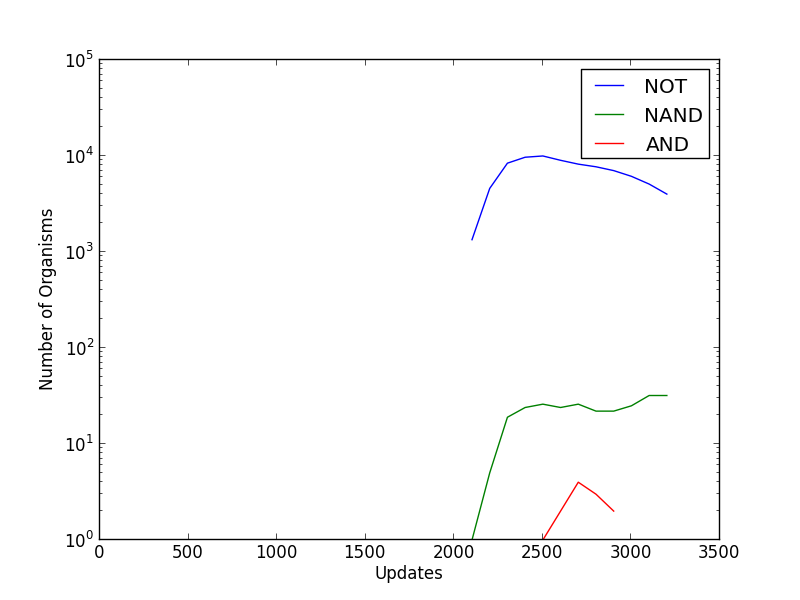
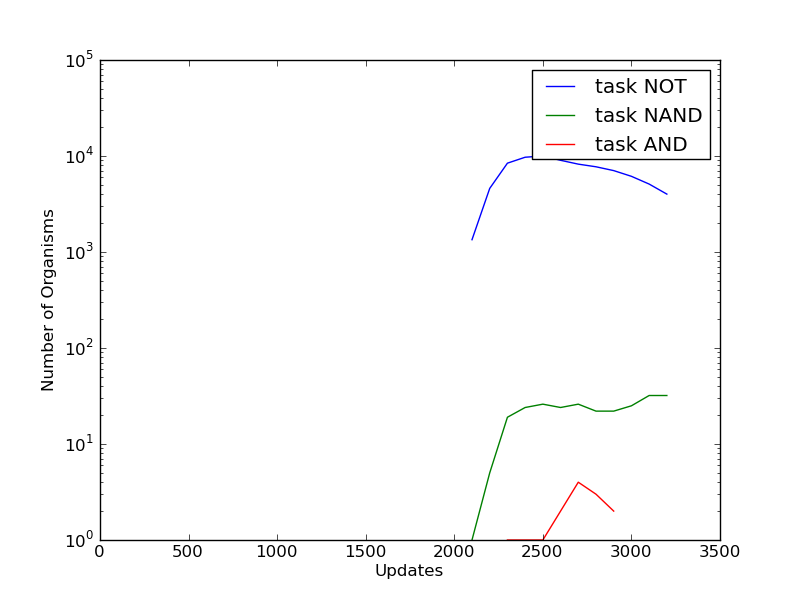
updated readme and figure2 with multiword legends

diff --git a/GenericScripts/GraphColumns/README.rst b/GenericScripts/GraphColumns/README.rst
@@ -18,7 +18,7 @@ Showing some basic functionality
 ********************************
 ::
 
-./graph_columns.py -data_file examples/parasite_phenotype_count.dat -xlabel Updates -ylabel "Shannon Diversity Index" -x 0 -columns 2
+./graph_columns.py --data_file examples/parasite_phenotype_count.dat --x_label Updates --y_label "Shannon Diversity Index" --x_column 0 --columns 2 --grid
  
 
 Producing `this figure
@@ -28,7 +28,7 @@ Showing how to graph multiple columns at one (0s cause problems with the y-axis 
 ***********************************************************************************************
 ::
 
-./graph_columns.py -data_file examples/parasite_tasks.dat -xlabel Updates -ylabel "Number of Organisms"  -x 0 -columns 1 2 3 -column_labels NOT NAND AND -logy
+./graph_columns.py --data_file examples/parasite_tasks.dat --x_label Updates --y_label "Number of Organisms"  --x_column 0 --columns 1 2 3 --column_labels "task NOT" "task NAND" "task AND" --log_y
 
 Producing `this figure
 <https://github.com/zamanlh/AvidaScripts/blob/master/GenericScripts/GraphColumns/examples/sample2.png>`_.
